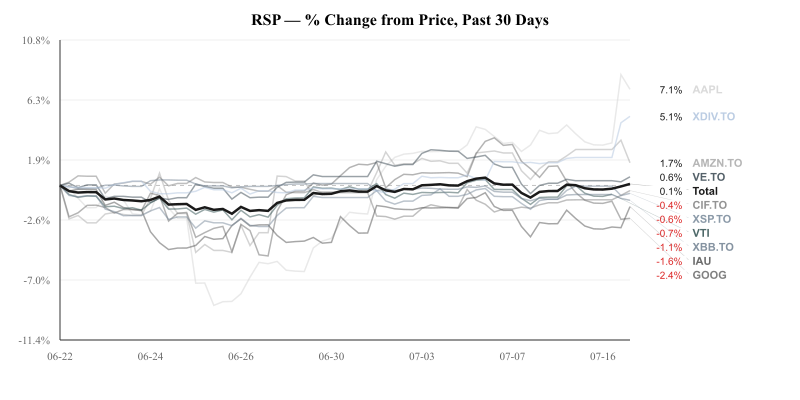
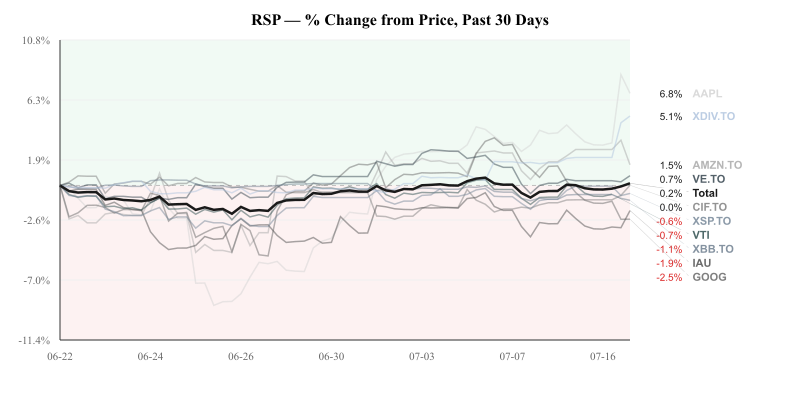
Tint chart backgrounds green/red at the zero line
The zero baseline was easy to miss on both the interactive web charts
and the static PNG charts sent in reports. A light green tint above
zero and red below now makes it visible at a glance without reading
the axis labels.

Changed region(s): [[0.7812, 0.39, 0.9375, 0.72], [0.8125, 0.21, 0.9062, 0.24]]

diff --git a/public/index.html b/public/index.html
@@ -475,6 +475,15 @@
       return (
         <svg viewBox={`0 0 ${width} ${finalHeight}`} style={{width: '100%', height: 'auto', maxWidth: width}}>
           <rect width={width} height={finalHeight} fill="white" />
+          {(() => {
+            const zeroY = Math.max(marginTop, Math.min(marginTop + chartHeight, valueToY(0)));
+            return (
+              <>
+                <rect x={marginLeft} y={marginTop} width={width - marginRight - marginLeft} height={zeroY - marginTop} fill="#16a34a" opacity="0.06" />
+                <rect x={marginLeft} y={zeroY} width={width - marginRight - marginLeft} height={marginTop + chartHeight - zeroY} fill="#dc2626" opacity="0.06" />
+              </>
+            );
+          })()}
           {[0, 1, 2, 3, 4, 5].map(i => (
             <line key={'g' + i} x1={marginLeft} y1={marginTop + (i / 5) * chartHeight} x2={width - marginRight} y2={marginTop + (i / 5) * chartHeight} stroke="#efefef" strokeWidth="1" />
           ))}

diff --git a/src/chart-generator.ts b/src/chart-generator.ts
@@ -245,6 +245,13 @@ function generateChartSVG(
   // Background
   svg += `<rect width="${width}" height="${height}" fill="white"/>`;
 
+  // Positive/negative tint bands, split at the zero line, so the zero baseline
+  // is easy to spot at a glance without having to read the axis labels.
+  const zeroTintY = Math.max(marginTop, Math.min(marginTop + chartHeight, percentToY(0)));
+  const plotWidth = width - marginRight - marginLeft;
+  svg += `<rect x="${marginLeft}" y="${marginTop}" width="${plotWidth}" height="${zeroTintY - marginTop}" fill="#16a34a" opacity="0.06"/>`;
+  svg += `<rect x="${marginLeft}" y="${zeroTintY}" width="${plotWidth}" height="${marginTop + chartHeight - zeroTintY}" fill="#dc2626" opacity="0.06"/>`;
+
   // Grid lines
   for (let i = 0; i <= 5; i++) {
     const y = marginTop + (i / 5) * chartHeight;
